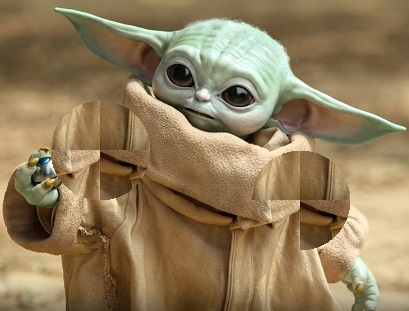
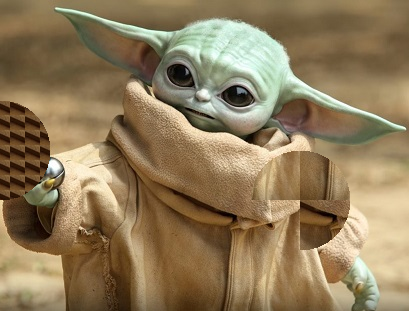
Lab 7 - Report img (Ex 3)

Changed region(s): [[0.0, 0.3183, 0.3814, 0.6656]]

diff --git a/Lab7/Lab7_1.py b/Lab7/Lab7_1.py
@@ -93,9 +93,6 @@ def rysuj_kolo_z_pikseli(obraz, m_s, n_s, r, x, y, szerokosc, wysokosc):
 
     return obraz1
 
-output_image_path_3 = "obraz3.png"
-output_image_path_4 = "obraz4.png"
-
 modified_image_3 = rysuj_kolo_z_pikseli(
     obraz=obraz,
     m_s=300,
@@ -107,20 +104,20 @@ modified_image_3 = rysuj_kolo_z_pikseli(
     wysokosc=100
 )
 
-modified_image_3.save(output_image_path_3)
+modified_image_3.save("obraz3.png")
 
 modified_image_4 = rysuj_kolo_z_pikseli(
     obraz=modified_image_3,
-    m_s=100,
+    m_s=000,
     n_s=150,
     r=50,
     x=200,
     y=200,
-    szerokosc=100,
-    wysokosc=100
+    szerokosc=15,
+    wysokosc=15
 )
 
-modified_image_4.save(output_image_path_4)
+modified_image_4.save("obraz4.png")
 
 # Zadanie 3
 def odbij_w_pionie(im):
